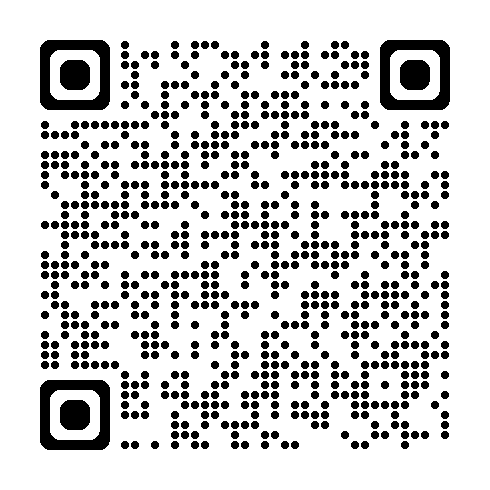
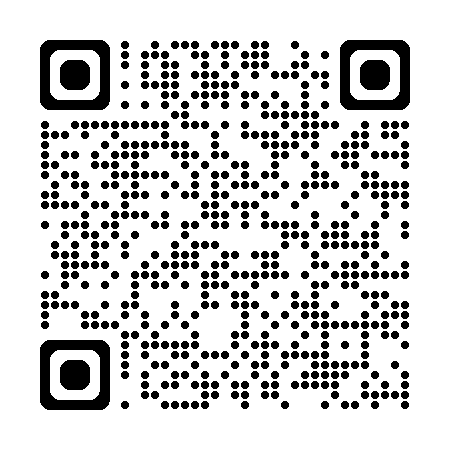
CHANGE: Update QR code link in presentation slides
- Changed the QR code link to point to the new URL.

diff --git a/presentations/agentic-dotnet-appmod/slides.md b/presentations/agentic-dotnet-appmod/slides.md
@@ -22,7 +22,7 @@ canvasHeight: 720
 <div class="hero-shell">
   <div class="hero-qr-block">
     <img src="./images/presentation-qr-code.png" class="hero-qr" alt="Presentation QR code" />
-    <a href="https://github.com/PlagueHO/plagueho.learn" target="_blank" class="hero-qr-url">github.com/PlagueHO/plagueho.learn</a>
+    <a href="https://danielscottraynsford.com/plagueho.learn/agentic-dotnet-appmod" target="_blank" class="hero-qr-url">danielscottraynsford.com/plagueho.learn/agentic-dotnet-appmod</a>
   </div>
   <p class="eyebrow">AppMod MCP · Skills · Dependency Layers · /troubleshoot · Async Execution</p>
   <h1 class="hero-heading">Agentic .NET<br>AppMod</h1>
